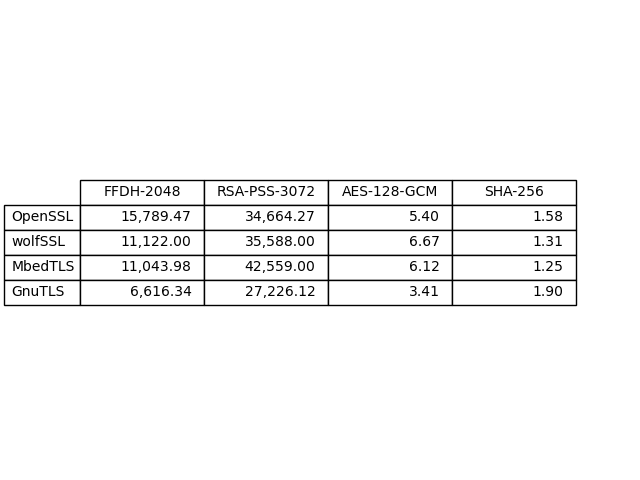
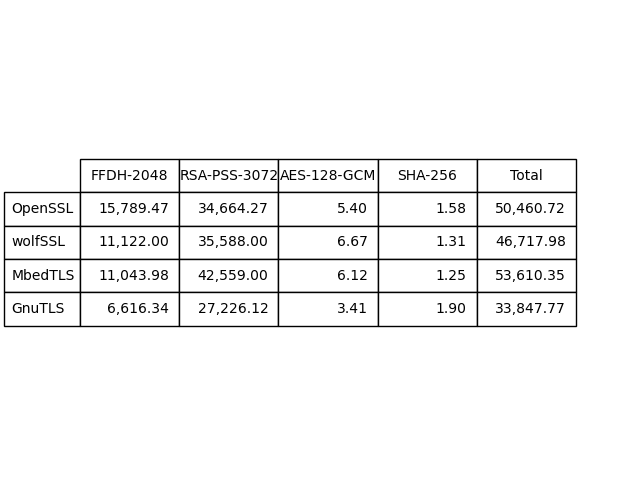
fgsd

Changed region(s): [[0.0, 0.3125, 0.9062, 0.6875]]

diff --git a/plots/time_ffdh2048_rsa3072_aes128gcm_sha256.py b/plots/time_ffdh2048_rsa3072_aes128gcm_sha256.py
@@ -11,7 +11,7 @@
 import matplotlib.pyplot as plt
 import numpy as np
 
-algos = ("FFDH-2048", "RSA-PSS-3072", "AES-128-GCM", "SHA-256")
+algos = ("FFDH-2048", "RSA-PSS-3072", "AES-128-GCM", "SHA-256", "Total")
 times = {
     'OpenSSL': (15789.47, 34664.27, 5.4, 1.58),
     'wolfSSL': (11122, 35588, 6.67, 1.31),
@@ -19,25 +19,30 @@ times = {
     'GnuTLS': (6616.34, 27226.12, 3.41, 1.9)
 }
 
-x = np.arange(len(algos))  # the label locations
+libs = ('OpenSSL', 'wolfSSL', 'MbedTLS', 'GnuTLS')
+durs = {
+    'FFDH-2048': (15789.47, 11122, 11043.98, 6616.34),
+    'RSA-PSS-3072': (34664.27, 35588, 42559, 27226.12),
+    'AES-128-GCM': (5.4, 6.67, 6.12, 3.41),
+    'SHA-256': (1.58, 1.31, 1.25, 1.9)
+}
+
+bottom = np.zeros(3)
+x = np.arange(len(libs))  # the label locations
 width = 0.2  # the width of the bars
-multiplier = 0
 
 fig, ax = plt.subplots(layout='tight')
-
-for attribute, measurement in times.items():
-    offset = width * multiplier
-    rects = ax.bar(x + offset, measurement, width, label=attribute)
-    # ax.bar_label(rects, label_type='edge')
-    multiplier += 1
+bottom = np.zeros(4)
+for boolean, dur in durs.items():
+    p = ax.bar(libs, dur, width, label=boolean, bottom=bottom)
+    bottom += dur
 
 # Add some text for labels, title and custom x-axis tick labels, etc.
 ax.set_ylabel('Time (microseconds)')
-ax.set_title('Execution time by algorithm')
-ax.set_xticks(x + width, algos)
-# ax.legend(loc='upper left', ncols=3)
-ax.legend(loc='center left', bbox_to_anchor=(1, 0.5))
-ax.set_yscale('log')
+ax.set_title('Execution time')
+# ax.set_xticks(x + width, libs)
+ax.legend(loc='lower center', ncols=4)
+# ax.set_ylim(0, 100000)
 
 ax.grid(axis='y', linestyle='--') # Add horizontal grid lines
 
@@ -47,14 +52,15 @@ for index, (key, value) in enumerate(times.items()):
     tmp = list(value)
     for i in range(len(tmp)):
         tmp[i] = "{:,.2f}".format(tmp[i])
-    data.append(tmp)
+    tmp.append("{:,.2f}".format(sum(value)))
+    data.append(tmp)    
     row_labels.append(key)
 col_labels = algos
 
 fig, ax = plt.subplots()
 ax.axis('off')  # Hide the axes
 table = plt.table(cellText=data, colLabels=col_labels, rowLabels=row_labels, loc='center')
-table.scale(1, 1.5) # Adjust table size
+table.scale(1, 2) # Adjust table size
 
 table.auto_set_font_size(False) # Disable autosizing
 # table.set_fontsize(12) # Set font size
